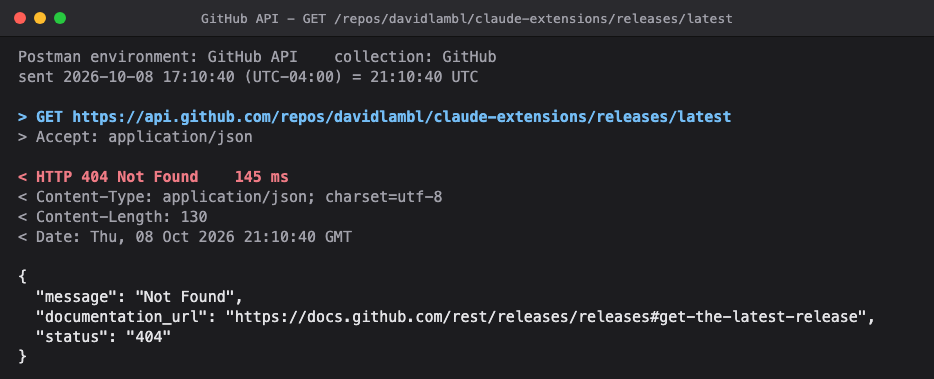
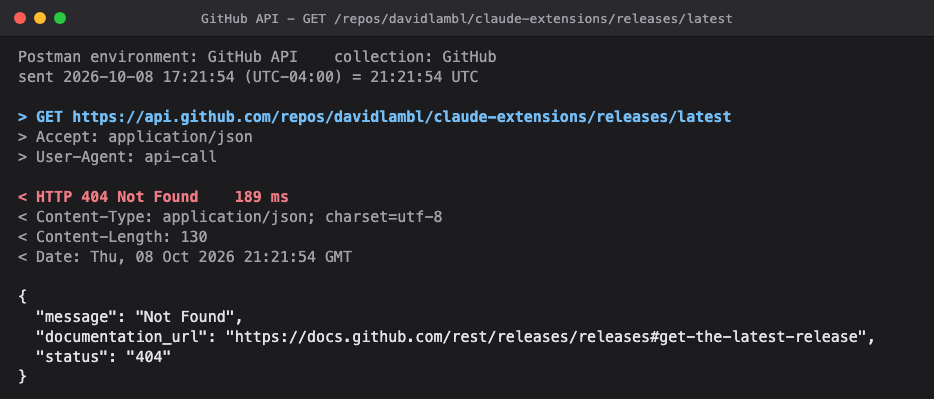
Record a redirect instead of following it, in both api-call sources
Python's urllib and .NET's HttpClient both resend a key header to whatever
host a redirect points at. A 3xx is now the response, with its Location
header. The Insomnia source sends through HttpClient with auto-redirect
off, as Invoke-WebRequest does underneath, since -MaximumRedirection 0
throws; it also adds a User-Agent, which HttpClient does not supply and
some servers require, and ends any error with its plain message, every
secret masked, instead of PowerShell's formatted error view. The Postman
source gains the same User-Agent and masks every error path. The demo
screenshots show the extra header. Version 0.2.1.

diff --git a/skills/api-call/skills/api-call/scripts/sources/postman.py b/skills/api-call/skills/api-call/scripts/sources/postman.py
@@ -13,7 +13,8 @@ it is a secret. A client certificate is PEM: --cert and --key, with API_CALL_KEY
 Only {{name}} templates are resolved; dynamic variables such as {{$guid}} and scripts are not.
 
 Secrets stay in this process. The JSON it prints shows auth values as ********, and the script refuses to print
-if any resolved secret would appear in its output.
+if any resolved secret would appear in its output. A redirect is recorded as the response, never followed, so a key
+is sent only to the host the collection named.
 """
 import argparse, base64, json, os, re, ssl, sys, time, urllib.error, urllib.parse, urllib.request
 from datetime import datetime, timezone
@@ -24,6 +25,19 @@ TEMPLATE = re.compile(r"\{\{\s*([^{}]+?)\s*\}\}")
 
 class Problem(Exception):
     """A reason the request cannot be built; its text is safe to print."""
+
+
+class NoRedirect(urllib.request.HTTPRedirectHandler):
+    """A redirect is recorded as the response, never followed: urllib would resend the auth headers to any host."""
+
+    def redirect_request(self, req, fp, code, msg, headers, newurl):
+        return None
+
+
+def scrub(text, secrets):
+    for s in secrets:
+        text = text.replace(s, "********")
+    return text
 
 
 def resolve(text, variables):
@@ -101,8 +115,8 @@ def build(collection, environment, extra, folder_name, base_url_var, path):
     folder = pick_folder(collection, folder_name)
     auth = (folder if folder is not None else collection).get("auth") or {}
     kind = auth.get("type") or "noauth"
-    headers = {"Accept": "application/json"}
-    shown = {"Accept": "application/json"}
+    headers = {"Accept": "application/json", "User-Agent": "api-call"}
+    shown = {"Accept": "application/json", "User-Agent": "api-call"}
     auth_text = "none"
     query = None
     if kind == "apikey":
@@ -147,12 +161,13 @@ def send(url, headers, cert, key, timeout):
     if cert:
         context.load_cert_chain(cert, key, password=os.environ.get("API_CALL_KEY_PASSPHRASE") or None)
     request = urllib.request.Request(url, headers=headers, method="GET")
+    opener = urllib.request.build_opener(NoRedirect(), urllib.request.HTTPSHandler(context=context))
     sent = datetime.now().astimezone()
     start = time.perf_counter()
     try:
-        with urllib.request.urlopen(request, timeout=timeout, context=context) as response:
+        with opener.open(request, timeout=timeout) as response:
             body, status, response_headers = response.read(), response.status, response.headers
-    except urllib.error.HTTPError as e:
+    except urllib.error.HTTPError as e:  # a status of 300 or more, a redirect among them
         body, status, response_headers = e.read(), e.code, e.headers
     return status, response_headers, body, round((time.perf_counter() - start) * 1000), sent
 
@@ -186,12 +201,9 @@ def main():
     try:
         status, response_headers, body, elapsed, sent = send(b["url"], b["headers"], args.cert, args.key, args.timeout)
     except Problem as e:
-        sys.exit(str(e))
+        sys.exit(scrub(str(e), b["secrets"]))
     except Exception as e:  # a failed request's message can quote the URL, and with it a key in the query
-        message = str(e)
-        for s in b["secrets"]:
-            message = message.replace(s, "********")
-        sys.exit(f"the request failed: {message}")
+        sys.exit(scrub(f"the request failed: {type(e).__name__}: {e}", b["secrets"]))
     record = {
         "source": "postman",
         "environment": environment.get("name") or Path(args.env).stem,
@@ -207,7 +219,7 @@ def main():
         "elapsed_ms": elapsed,
         "sent": sent.isoformat(timespec="milliseconds"),
         "sent_utc": sent.astimezone(timezone.utc).strftime("%Y-%m-%dT%H:%M:%S.") + f"{sent.microsecond // 1000:03d}Z",
-        "response_headers": {h: response_headers[h] for h in ("Content-Type", "Content-Length", "Date") if response_headers.get(h)},
+        "response_headers": {h: response_headers[h] for h in ("Content-Type", "Content-Length", "Date", "Location") if response_headers.get(h)},
         "body": body.decode("utf-8", errors="replace"),
     }
     out = json.dumps(record, ensure_ascii=False)

diff --git a/skills/api-call/tests/test_postman.py b/skills/api-call/tests/test_postman.py
@@ -54,7 +54,7 @@ class Build(unittest.TestCase):
         b = self.build(path="items/1")
         self.assertEqual(b["url"], "https://api.example.com/items/1")
         self.assertEqual(b["shown_url"], b["url"])
-        self.assertEqual(b["headers"], {"Accept": "application/json"})
+        self.assertEqual(b["headers"], {"Accept": "application/json", "User-Agent": "api-call"})
         self.assertEqual((b["auth"], b["folder"], b["path"], b["secrets"]), ("none", None, "/items/1", ["sekret-123456"]))
 
     def test_api_key_in_header_is_sent_and_masked(self):

diff --git a/skills/api-call/README.md b/skills/api-call/README.md
@@ -25,7 +25,7 @@ One JSON object per call, and the interface between a source and whatever reads 
 | `client_cert` | the client certificate's file name, or null |
 | `status`, `elapsed_ms` | the response's status, and how long it took |
 | `sent`, `sent_utc` | when it was sent, in local time with its offset and in UTC |
-| `response_headers` | `Content-Type`, `Content-Length` and `Date`, where present |
+| `response_headers` | `Content-Type`, `Content-Length`, `Date` and `Location`, where present |
 | `body` | the response body as text |
 
 `call.py` adds `label`, `expected` and `verdict` (`PASS`, `FAIL` or null), and with `--shot` the image's path as `png`.
@@ -34,7 +34,7 @@ One JSON object per call, and the interface between a source and whatever reads 
 
 A step through Insomnia that passed. The title carries the label and the path, the request shows the headers as sent, and the body is the response as returned, pretty-printed when it is JSON:
 
-![A GET to the GitHub API through Insomnia: HTTP 200 OK, with the request headers and a four-line JSON body](screenshots/api-call-pass.png)
+![A GET to the GitHub API through Insomnia: HTTP 200 OK, with the request headers and a short JSON body](screenshots/api-call-pass.png)
 
 A step through Postman whose status did not match `--expect 200`. The image is still written, the status line is red, and the script exits 3, so the mismatch is reported as a finding rather than retaken:
 
@@ -91,6 +91,7 @@ A before-and-after pair is two runs of the same step, one per environment, each 
 - **It sends real requests** to the environments you name, GET only. Pointed at production, it calls production: choose inputs that return test data, never a customer's.
 - **The images show the response body as returned.** Look at each one before you share it.
 - **Secrets stay in the source's process.** Keys, tokens and certificate passphrases are never printed, written or drawn; a client certificate appears by file name only, and a source refuses to print anything that would contain a secret. A folder header whose value is typed in, not templated, is not a secret to the script and is drawn as typed, so keep secrets in environment variables.
+- **A redirect is recorded, never followed.** A 3xx is the response, with its `Location` header, so a key is sent only to the host the collection named.
 - **It reads Insomnia's files and Postman's exports, and never writes them.** Insomnia: global environments and their sub-environments, `{{ name }}`, `{{ _.name }}` and `{{ _['name'] }}` templates, API key and bearer auth on a top-level folder, PFX and PEM client certificates. Postman: collection and environment variables, `{{name}}` templates, API key, bearer and basic auth on the collection or a top-level folder, PEM client certificates. Not supported: Nunjucks tags such as `{% response %}`, Postman's dynamic variables such as `{{$guid}}` and scripts, request-level auth, Insomnia's collection environments.
 - **Each image is written with its `.html` page, and each call with its `.json` record**, secrets excluded.
 

diff --git a/skills/api-call/skills/api-call/SKILL.md b/skills/api-call/skills/api-call/SKILL.md
@@ -21,7 +21,7 @@ python3 <base>/scripts/call.py --via insomnia --env "API - Test" --collection "A
 ```
 
 - `--via postman` takes the export files instead: `--env "<dir>/API - Test.postman_environment.json" --collection "<dir>/API.postman_collection.json"`. Secrets kept out of the export go in a `--vars` file; a client certificate is `--cert` and `--key`, in PEM.
-- `--expect` is the status the step should return. A mismatch exits 3; the record and the image are still written. Report a mismatch as a finding; never retake until it passes.
+- `--expect` is the status the step should return. A mismatch exits 3; the record and the image are still written. Report a mismatch as a finding; never retake until it passes. A redirect is recorded as its 3xx, never followed.
 - `--warm` sends once untimed first, so a cold start after a deploy does not show in the timing.
 - `--label` leads the image's title, such as `"After: Test (this change)"`. For a before-and-after pair, run the step twice, once per environment, with a label for each.
 - Only GET. Anything else is the user's to run.
